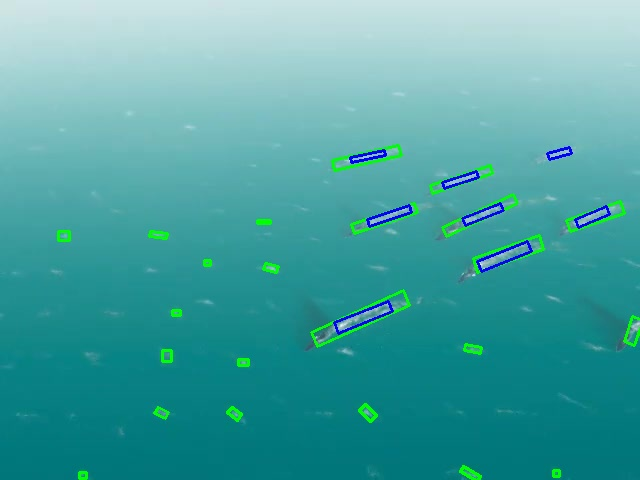
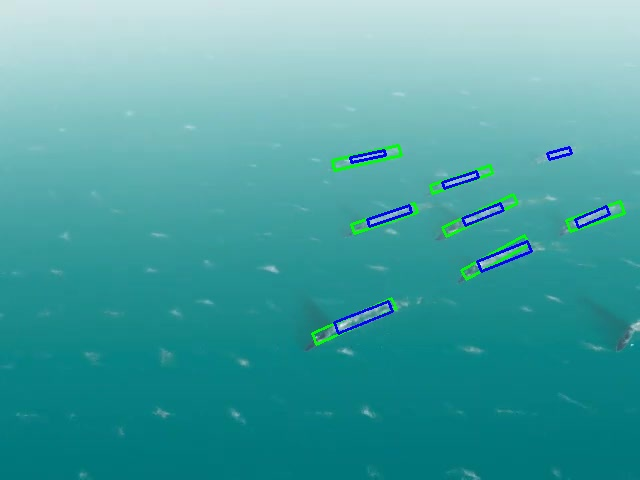
Remove Box_C(no sunset enhancement)

diff --git a/stern_wave_yolo_n_tradition.py b/stern_wave_yolo_n_tradition.py
@@ -24,7 +24,6 @@ I. Traditional Computer Vision Method (BoatTracker)
    A. Candidate Generation
       - Box_A: Large extended wake (blue sea patterns)
       - Box_B: Fragmented waves / micro-wave structures
-      - Box_C: Bright sunset / reflection induced waves
 
    B. Wake Refinement (Traditional)
       1) Merge overlapping Box_B fragments
@@ -321,31 +320,6 @@ class BoatTracker:
 
         return merged
 
-    # Box_C
-    def get_sunset_boxes(self, img, gray):
-        B_channel = img[:,:,0] 
-        _, mask_blue = cv2.threshold(B_channel, 160, 255, cv2.THRESH_BINARY)
-        kernel = cv2.getStructuringElement(cv2.MORPH_RECT, (25, 25))
-        tophat = cv2.morphologyEx(gray, cv2.MORPH_TOPHAT, kernel)
-        _, mask_tophat = cv2.threshold(tophat, 15, 255, cv2.THRESH_BINARY)
-        mask = cv2.bitwise_or(mask_blue, mask_tophat)
-        kernel_clean = np.ones((3, 3), np.uint8)
-        mask = cv2.morphologyEx(mask, cv2.MORPH_OPEN, kernel_clean)
-        boxes = []
-        contours, _ = cv2.findContours(mask, cv2.RETR_EXTERNAL, cv2.CHAIN_APPROX_SIMPLE)
-        img_area = img.shape[0] * img.shape[1]
-        for cnt in contours:
-            area = cv2.contourArea(cnt)
-            if area > 15:
-                rect = cv2.minAreaRect(cnt)
-                width, height = rect[1]
-                if width > 0 and height > 0:
-                    ratio = max(width, height) / min(width, height)
-                    if ratio > 0.8: #0.8
-                        if (width * height) < (img_area * 0.05):
-                            boxes.append(np.int32(cv2.boxPoints(rect)))
-        return boxes
-
     def run_detection(self, img):
         hsv = cv2.cvtColor(img, cv2.COLOR_BGR2HSV)
         gray = cv2.cvtColor(img, cv2.COLOR_BGR2GRAY)
@@ -354,7 +328,6 @@ class BoatTracker:
 
         boxes_A = self.get_blue_sea_boxes(img, S, V)
         boxes_B = self.get_loop_and_micro_boxes(img, gray, S)
-        boxes_C = self.get_sunset_boxes(img, gray)
 
         # merge fragmented wake boxes only
         boxes_B = self.merge_overlapping_boxes_unionfind(
@@ -368,7 +341,7 @@ class BoatTracker:
         )
 
         # combine all boxes
-        all_boxes = boxes_A + boxes_B + boxes_C
+        all_boxes = boxes_A + boxes_B
 
         all_boxes = self.suppress_close_small_boxes(
             all_boxes,
